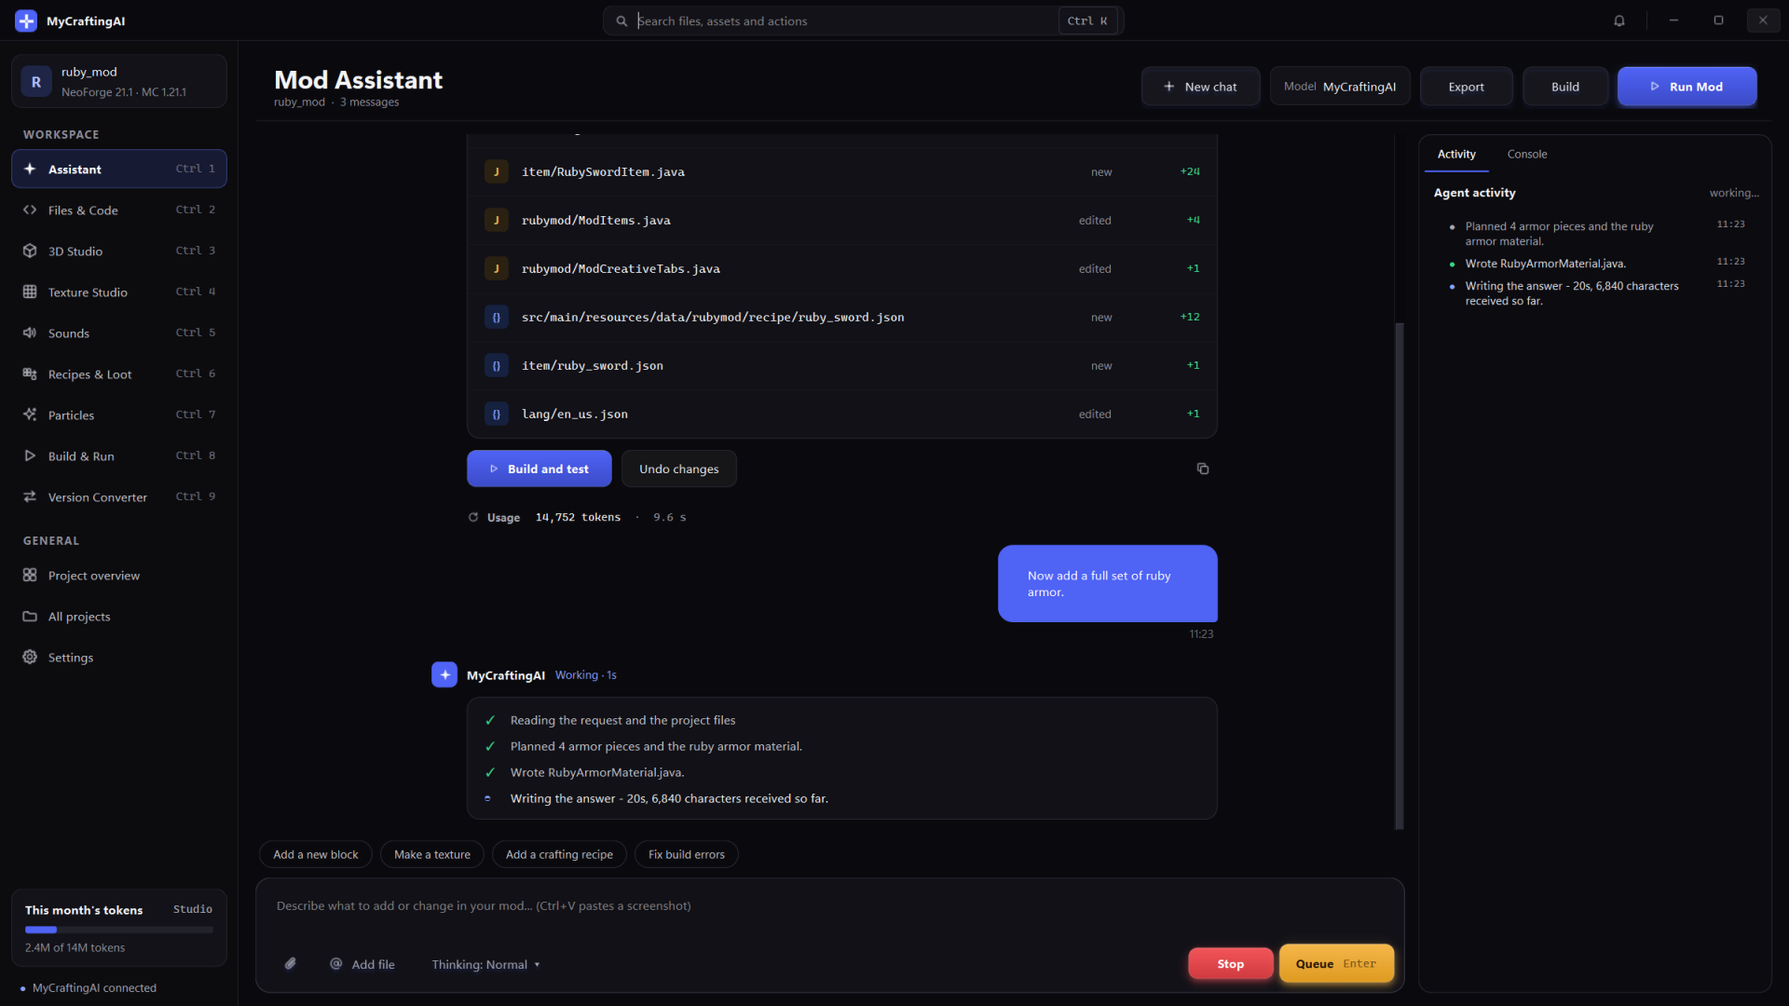
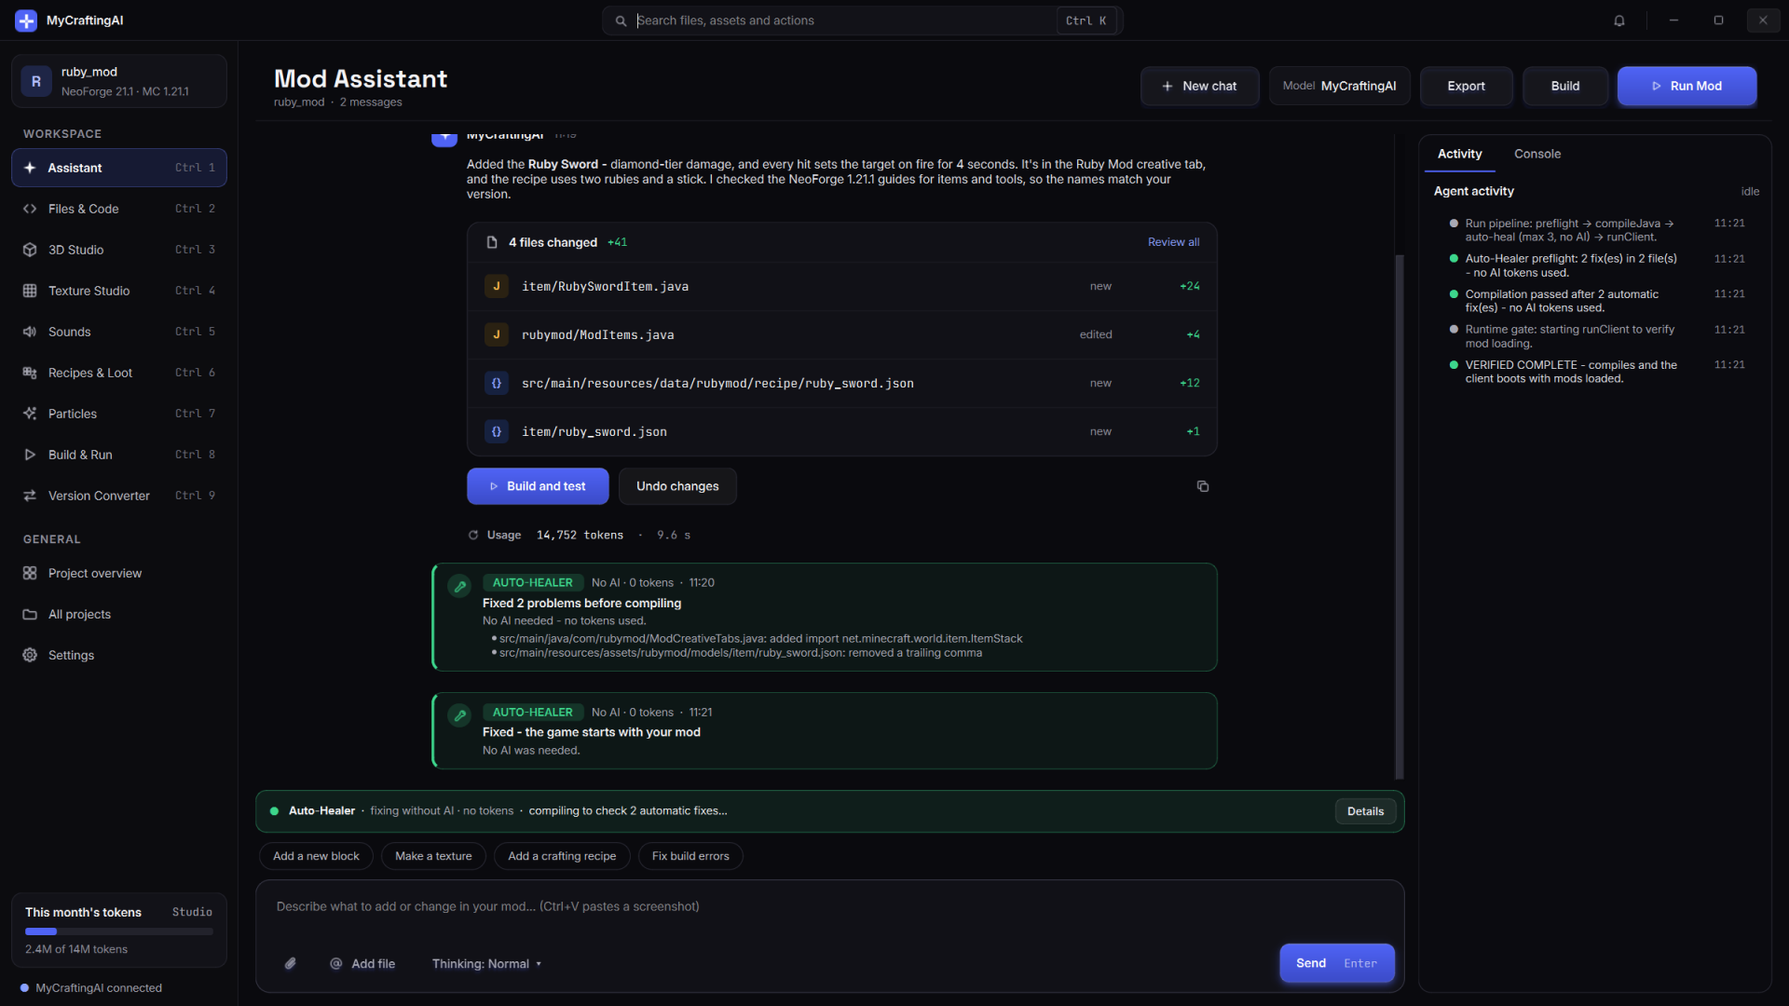
MyCraftingAI 1.1.3 - website update

diff --git a/about.html b/about.html
@@ -114,7 +114,7 @@
           { "@type": "Question", "name": "Which mod loaders and Minecraft versions does MyCraftingAI support?",
             "acceptedAnswer": { "@type": "Answer", "text": "Forge (1.7.10 to 26.x), NeoForge (1.20.2 to 26.x) and Fabric (1.14.3 to 26.x) projects, plus datapacks. Every Minecraft version the app offers has its own verified, version-exact guides in the app's built-in reference library, so the AI writes code with the right names and APIs for that exact version. The Version Converter reads Forge, NeoForge, Fabric and Quilt mods of any version and converts them to any of those versions." } },
           { "@type": "Question", "name": "What happens when my mod doesn't compile?",
-            "acceptedAnswer": { "@type": "Answer", "text": "MyCraftingAI's Auto-Healer checks the mod's JSON files and mod id before every build, then fixes common compile errors - missing imports, renamed classes and known API changes between Minecraft versions - by itself, without AI tokens. Only what is left goes to the AI, together with the exact error lines and the real class and method names of the project's Minecraft version." } },
+            "acceptedAnswer": { "@type": "Answer", "text": "MyCraftingAI's Auto-Healer checks the mod's JSON files and mod id before every build, then fixes common compile errors - missing imports, renamed classes and known API changes between Minecraft versions - and known crashes by itself, without AI tokens. Only what is left goes to the AI, together with the exact error lines and the real class and method names of the project's Minecraft version. A green Auto-Healer card or an indigo AI repair card always shows who is fixing the mod." } },
           { "@type": "Question", "name": "Can MyCraftingAI convert a 1.12.2 or 1.16.5 mod to 1.21.1?",
             "acceptedAnswer": { "@type": "Answer", "text": "Yes. The Version Converter detects the mod's loader and version, ports the code and resources (including the 1.13 Flattening and the 1.21 data changes) to each target you choose and saves every version as a ready-to-build ZIP with a report. The token estimate is shown before it starts." } },
           { "@type": "Question", "name": "Is MyCraftingAI free?",
@@ -174,55 +174,55 @@
             <div class="ws-top"><h3>Mod Assistant (chat)</h3><span class="tag">All plans</span></div>
             <p>Chat with an AI that reads your project before it writes. Each answer lists the files it created or changed, so you can review, undo or build straight away.</p>
             <ul><li>Items, blocks, ores, tools, armour, mobs, recipes, loot and world generation</li><li>Version-exact: reads verified guides for your loader and Minecraft version, and looks up classes mid-answer</li><li>Attach screenshots or reference images</li></ul>
-            <img src="assets/img/assistant.png?v=20261126" alt="MyCraftingAI Mod Assistant with a finished request and the list of changed files" loading="lazy" width="1920" height="1080">
+            <img src="assets/img/assistant.png?v=20261130" alt="MyCraftingAI Mod Assistant with a finished request, the changed files and Auto-Healer repair cards" loading="lazy" width="1920" height="1080">
           </article>
           <article class="ws-card">
             <div class="ws-top"><h3>3D Studio</h3><span class="tag studio">Studio plan</span></div>
             <p>Describe a mob and how it moves. The AI builds a GeckoLib model with bones, pivots and animations; watch every animation play in the app, then connect it to your code with one click. Weapons, tools, guns and armor sets too.</p>
-            <ul><li>GeckoLib release matched to your loader and version automatically</li><li>Walk, idle, attack and fly animations from a sentence - add new ones like "aim a bow" any time</li><li>3D weapons and guns placed right in the hand, the inventory and on the ground; 3D armor on a player mannequin</li><li>Glowing eyes, fire, smoke and other effects, previewed live</li></ul>
-            <img src="assets/img/3d-studio.png?v=20261126" alt="MyCraftingAI 3D Studio showing a GeckoLib fire dragon model playing its fly animation" loading="lazy" width="1920" height="1080">
+            <ul><li>GeckoLib release matched to your loader and version automatically</li><li>Walk, idle, attack and fly animations from a sentence - "run, walk and attack" makes three separate ones</li><li>Animation list: play, add, redo or delete each animation, or redo only the ones you tick</li><li>3D weapons and guns placed right in the hand, the inventory and on the ground; 3D armor on a player mannequin</li><li>Glowing eyes, fire, smoke and other effects, previewed live</li></ul>
+            <img src="assets/img/3d-studio.png?v=20261130" alt="MyCraftingAI 3D Studio showing a GeckoLib fire dragon playing its fly animation, with its animation list" loading="lazy" width="1920" height="1080">
           </article>
           <article class="ws-card">
             <div class="ws-top"><h3>Texture Studio</h3><span class="tag">Builder and up</span></div>
             <p>Paint item, block and entity textures by hand, or describe them to the pixel-art AI. Turn the result in 3D to check it from every side.</p>
             <ul><li>16x16 to 64x64 pixel art at the size the game expects</li><li>Every asset arrives with an art brief from the Assistant - press Generate, pick Fast, Normal or Max detail</li><li>Show GUI buttons: slots, buttons and bars outlined where your code draws them</li><li>Mobs shown on their real 3D model</li></ul>
-            <img src="assets/img/texture-studio.png?v=20261126" alt="MyCraftingAI Texture Studio with a 16 by 16 ruby gem on the pixel canvas" loading="lazy" width="1920" height="1080">
+            <img src="assets/img/texture-studio.png?v=20261130" alt="MyCraftingAI Texture Studio with a 16 by 16 ruby gem on the pixel canvas" loading="lazy" width="1920" height="1080">
           </article>
           <article class="ws-card">
             <div class="ws-top"><h3>Version Converter</h3><span class="tag studio">Studio plan</span></div>
             <p>Point it at a mod folder: it detects the loader and Minecraft version, ports the mod to every loader and version you pick, and saves each one as a ready-to-build ZIP with a conversion report.</p>
             <ul><li>From Forge, NeoForge, Fabric and Quilt mods of any version</li><li>To Forge 1.7.10+, NeoForge 1.20.2+ and Fabric 1.14.3+ up to 26.x - every target with verified guides</li><li>Predictable token estimate before it starts; compile check with 1 to unlimited repair rounds</li><li>Every version kept as a project: pick it next to Run Mod and test it one by one</li></ul>
-            <img src="assets/img/version-converter.png?v=20261126" alt="MyCraftingAI Version Converter converting a mod to several loaders and Minecraft versions with a token estimate" loading="lazy" width="1920" height="1080">
+            <img src="assets/img/version-converter.png?v=20261130" alt="MyCraftingAI Version Converter converting a mod to several loaders and Minecraft versions with a token estimate" loading="lazy" width="1920" height="1080">
           </article>
           <article class="ws-card">
             <div class="ws-top"><h3>Project Manager</h3><span class="tag">All plans</span></div>
             <p>Create a new mod or open an existing one. The start screen downloads the official template for the loader and version you choose and renames it to your mod, then the overview and code editor keep the whole project in view.</p>
             <ul><li>Smart scaffolding: <code>com.my_mod</code>, never <code>com.example</code></li><li>Project overview with loader, version and Java detection</li><li>Files &amp; Code editor with tabs, syntax colours and a project tree</li></ul>
-            <img src="assets/img/files.png?v=20261126" alt="MyCraftingAI Files and Code view with the project tree and Java editor" loading="lazy" width="1920" height="1080">
+            <img src="assets/img/files.png?v=20261130" alt="MyCraftingAI Files and Code view with the project tree and Java editor" loading="lazy" width="1920" height="1080">
           </article>
           <article class="ws-card">
             <div class="ws-top"><h3>Build &amp; Run</h3><span class="tag">All plans</span></div>
             <p>Compile with Gradle and launch the Minecraft development client in one click. The Auto-Healer fixes common errors first without tokens; what's left goes to the assistant, as many rounds as you allow, and a load check confirms the game really starts with your mod.</p>
-            <ul><li>Auto-Healer: JSON files, mod id, imports and version API changes repaired before the AI is asked</li><li>Right Java (8, 17, 21 or 25) chosen or downloaded automatically</li><li>Setup problems explained instead of sent to the AI</li><li>Test server with its addresses, port, admins and offline players</li><li>Export: the ready-to-play .jar or the project as a ZIP - one version or all</li></ul>
-            <img src="assets/img/build-run.png?v=20261126" alt="MyCraftingAI Build and Run page with the compile pipeline and game log" loading="lazy" width="1920" height="1080">
+            <ul><li>Auto-Healer: JSON files, mod id, imports, version API changes and known crashes repaired before the AI is asked</li><li>Always clear who is fixing: green Auto-Healer (free) or indigo AI repair (uses tokens)</li><li>Right Java (8, 17, 21 or 25) chosen or downloaded automatically</li><li>Setup problems explained instead of sent to the AI</li><li>Test server with its addresses, port, admins and offline players</li><li>Export: the ready-to-play .jar or the project as a ZIP - one version or all</li></ul>
+            <img src="assets/img/build-run.png?v=20261130" alt="MyCraftingAI Build and Run page with the compile pipeline and game log" loading="lazy" width="1920" height="1080">
           </article>
           <article class="ws-card">
             <div class="ws-top"><h3>Sounds</h3><span class="tag">Builder and up</span></div>
             <p>Every sound your mod needs in one list: each mob's ambient, hurt, death and step sounds and every sound event in your code. New mobs arrive with fitting Minecraft sounds, so nothing is silent.</p>
             <ul><li>All 1,968 Minecraft sounds to listen to and pick from</li><li>Import your own .ogg, set volume and pitch</li><li>One click connects the sounds to your code</li></ul>
-            <img src="assets/img/sounds.png?v=20261126" alt="MyCraftingAI Sounds page with a golem's sounds, the sound shape sliders and the Minecraft sound library" loading="lazy" width="1920" height="1080">
+            <img src="assets/img/sounds.png?v=20261130" alt="MyCraftingAI Sounds page with a golem's sounds, the sound shape sliders and the Minecraft sound library" loading="lazy" width="1920" height="1080">
           </article>
           <article class="ws-card">
             <div class="ws-top"><h3>Recipes &amp; Loot</h3><span class="tag">Builder and up</span></div>
             <p>A visual crafting table and loot-table builder. Pick your mod's items or any Minecraft item, click the slots, save - the files are written in the exact format of your Minecraft version.</p>
             <ul><li>Shaped, shapeless, furnace, blast furnace, smoker, campfire and stonecutter recipes</li><li>Block drops with Silk Touch and Fortune, mob drops with Looting and chances</li><li>No code and no AI tokens needed</li></ul>
-            <img src="assets/img/recipes.png?v=20261126" alt="MyCraftingAI Recipes and Loot page with a ruby sword crafting recipe" loading="lazy" width="1920" height="1080">
+            <img src="assets/img/recipes.png?v=20261130" alt="MyCraftingAI Recipes and Loot page with a ruby sword crafting recipe" loading="lazy" width="1920" height="1080">
           </article>
           <article class="ws-card">
             <div class="ws-top"><h3>Particles</h3><span class="tag studio">Studio plan</span></div>
             <p>Design particles, sword trails, shockwave rings, spirals, auras and explosions with a live preview, then attach them to an item, a mob or a projectile.</p>
             <ul><li>Shape, sprite, colour and opacity fades, size, lifetime, physics and glow</li><li>Preview in real time without spending tokens</li><li>Connect to code registers the particle and spawns it for every player</li></ul>
-            <img src="assets/img/particles.png?v=20261126" alt="MyCraftingAI Particles page with a glowing sword-swing trail in the live preview" loading="lazy" width="1920" height="1080">
+            <img src="assets/img/particles.png?v=20261130" alt="MyCraftingAI Particles page with a glowing sword-swing trail in the live preview" loading="lazy" width="1920" height="1080">
           </article>
         </div>
       </div>

diff --git a/index.html b/index.html
@@ -135,50 +135,50 @@
         </div>
         <div class="tour reveal">
           <div class="tour-tabs" role="tablist" aria-label="App workspaces">
-            <button class="tour-tab" role="tab" aria-selected="true" data-shot="assets/img/assistant.png?v=20261126" data-alt="Mod Assistant with a finished request and the list of changed files">
+            <button class="tour-tab" role="tab" aria-selected="true" data-shot="assets/img/assistant.png?v=20261130" data-alt="Mod Assistant with a finished request, the changed files and two Auto-Healer repair cards">
               <h3>Mod Assistant <span class="k">Ctrl 1</span></h3>
-              <p>Chat with the assistant. Every answer ends with the files it changed, so you can review, undo, or build right away.</p>
+              <p>Chat with the assistant. Every answer ends with the files it changed, so you can review, undo, or build right away. Repairs are labelled: green for the free Auto-Healer, indigo when the AI is fixing.</p>
             </button>
-            <button class="tour-tab" role="tab" aria-selected="false" data-shot="assets/img/files.png?v=20261126" data-alt="Files and Code view with the project tree and Java editor">
+            <button class="tour-tab" role="tab" aria-selected="false" data-shot="assets/img/files.png?v=20261130" data-alt="Files and Code view with the project tree and Java editor">
               <h3>Files &amp; Code <span class="k">Ctrl 2</span></h3>
               <p>A real editor with tabs, syntax colours and a project tree. Rename, copy, paste, or send files to the Recycle Bin.</p>
             </button>
-            <button class="tour-tab" role="tab" aria-selected="false" data-shot="assets/img/3d-studio.png?v=20261126" data-alt="3D Studio showing a GeckoLib fire dragon model playing its fly animation">
+            <button class="tour-tab" role="tab" aria-selected="false" data-shot="assets/img/3d-studio.png?v=20261130" data-alt="3D Studio showing a GeckoLib fire dragon playing its fly animation, with the list of its five animations">
               <h3>3D Studio <span class="lock" title="Included in the Studio plan.">Studio</span> <span class="k">Ctrl 3</span></h3>
-              <p>Describe a mob and how it moves. The AI builds a GeckoLib model with bones and animations, and you watch them play before connecting it to your code.</p>
+              <p>Describe a mob and how it moves. The AI builds a GeckoLib model with bones and animations, and you watch them play. Add, redo or delete each animation - "run, walk and attack" makes three.</p>
             </button>
-            <button class="tour-tab" role="tab" aria-selected="false" data-shot="assets/img/3d-weapons.png?v=20261126" data-alt="3D Studio showing a ruby longsword held by a player mannequin">
+            <button class="tour-tab" role="tab" aria-selected="false" data-shot="assets/img/3d-weapons.png?v=20261130" data-alt="3D Studio showing a ruby longsword held by a player mannequin">
               <h3>3D weapons &amp; armor <span class="lock" title="Included in the Studio plan.">Studio</span> <span class="k">Ctrl 3</span></h3>
               <p>Swords, tools, guns and armor sets in 3D. Every position - in the hand, first person, the inventory and on the ground - is set for you and shown on a player before you use it.</p>
             </button>
-            <button class="tour-tab" role="tab" aria-selected="false" data-shot="assets/img/texture-studio.png?v=20261126" data-alt="Texture Studio with a ruby sword on the pixel canvas">
+            <button class="tour-tab" role="tab" aria-selected="false" data-shot="assets/img/texture-studio.png?v=20261130" data-alt="Texture Studio with a ruby sword on the pixel canvas">
               <h3>Texture Studio <span class="lock" title="Included in Builder and up. On Free, unlock 5 minutes with a short ad.">Builder+</span> <span class="k">Ctrl 4</span></h3>
               <p>Paint 16x16 sprites by hand or describe them to the pixel-art AI. Turn the item in 3D to check it from every side.</p>
             </button>
-            <button class="tour-tab" role="tab" aria-selected="false" data-shot="assets/img/sounds.png?v=20261126" data-alt="Sounds page with a golem's sounds, the sound shape sliders and the Minecraft sound library">
+            <button class="tour-tab" role="tab" aria-selected="false" data-shot="assets/img/sounds.png?v=20261130" data-alt="Sounds page with a golem's sounds, the sound shape sliders and the Minecraft sound library">
               <h3>Sounds <span class="lock" title="Included in Builder and up.">Builder+</span> <span class="k">Ctrl 5</span></h3>
               <p>Every sound your mobs and items need, filled in with fitting Minecraft sounds. Listen to all 1,968 of them, shape the tone, loudness and range, or import your own.</p>
             </button>
-            <button class="tour-tab" role="tab" aria-selected="false" data-shot="assets/img/recipes.png?v=20261126" data-alt="Recipes and Loot page with a ruby sword crafting recipe">
+            <button class="tour-tab" role="tab" aria-selected="false" data-shot="assets/img/recipes.png?v=20261130" data-alt="Recipes and Loot page with a ruby sword crafting recipe">
               <h3>Recipes &amp; Loot <span class="lock" title="Included in Builder and up.">Builder+</span> <span class="k">Ctrl 6</span></h3>
               <p>A visual crafting table and loot-table builder with your mod's items and every Minecraft item. Written in your Minecraft version's exact format - no code needed.</p>
             </button>
-            <button class="tour-tab" role="tab" aria-selected="false" data-shot="assets/img/particles.png?v=20261126" data-alt="Particles page with a glowing sword-swing trail in the live preview">
+            <button class="tour-tab" role="tab" aria-selected="false" data-shot="assets/img/particles.png?v=20261130" data-alt="Particles page with a glowing sword-swing trail in the live preview">
               <h3>Particles <span class="lock" title="Included in the Studio plan.">Studio</span> <span class="k">Ctrl 7</span></h3>
               <p>Design sparks, swing trails, shockwaves, spirals, auras and explosions with a live preview, then attach them to an item, a mob or a projectile.</p>
             </button>
-            <button class="tour-tab" role="tab" aria-selected="false" data-shot="assets/img/build-run.png?v=20261126" data-alt="Build and Run page with the compile pipeline and game log">
+            <button class="tour-tab" role="tab" aria-selected="false" data-shot="assets/img/build-run.png?v=20261130" data-alt="Build and Run page with the compile pipeline and game log">
               <h3>Build &amp; Run <span class="k">Ctrl 8</span></h3>
               <p>Compile with Gradle and launch the dev client in one click. If the build fails, the Auto-Healer fixes common errors first - without tokens - and the rest goes straight back to the assistant. Run a test server with its addresses, admins and offline players. <b>Export</b> saves the ready-to-play .jar or the project files as a ZIP.</p>
             </button>
-            <button class="tour-tab" role="tab" aria-selected="false" data-shot="assets/img/version-converter.png?v=20261126" data-alt="Version Converter converting a NeoForge 1.21.1 mod to Fabric, Forge and NeoForge versions with a token estimate">
+            <button class="tour-tab" role="tab" aria-selected="false" data-shot="assets/img/version-converter.png?v=20261130" data-alt="Version Converter converting a NeoForge 1.21.1 mod to Fabric, Forge and NeoForge versions with a token estimate">
               <h3>Version Converter <span class="lock" title="Included in the Studio plan.">Studio</span> <span class="k">Ctrl 9</span></h3>
               <p>Point it at any Forge, NeoForge, Fabric or Quilt mod: it detects the loader and version, ports it to as many loaders and Minecraft versions as you pick - from 1.7.10 to 26.x, each with verified guides - and hands you a ready-to-build ZIP for each, with the token cost shown first. Then pick each version next to Run Mod to build and test it, one by one.</p>
             </button>
           </div>
           <figure class="shot" style="margin:0">
             <div class="shot-bar"><i></i><i></i><i></i></div>
-            <img id="tour-img" src="assets/img/assistant.png?v=20261126" width="1920" height="1080" alt="Mod Assistant with a finished request and the list of changed files" loading="lazy">
+            <img id="tour-img" src="assets/img/assistant.png?v=20261130" width="1920" height="1080" alt="Mod Assistant with a finished request, the changed files and two Auto-Healer repair cards" loading="lazy">
           </figure>
         </div>
       </div>
@@ -380,7 +380,7 @@
           </details>
           <details>
             <summary>How many times does it try to fix a failing build?</summary>
-            <div class="answer">First the <b>Auto-Healer</b> tries, for free: before every build it checks your JSON files and mod id, then fixes common compile errors - missing imports, renamed classes and known API changes between Minecraft versions - up to 3 times without using any tokens, keeping a backup of each file it changes. Whatever is left goes to the assistant with the exact error lines and the real names from your Minecraft version. How many AI rounds it gets is up to you: in Settings &rarr; Assistant, set any number of attempts or switch on Unlimited, which keeps going until the build passes or your tokens run out. The Auto-Healer can be switched off there too.</div>
+            <div class="answer">First the <b>Auto-Healer</b> tries, for free: before every build it checks your JSON files and mod id, then fixes common compile errors - missing imports, renamed classes and known API changes between Minecraft versions - up to 3 times without using any tokens, keeping a backup of each file it changes - it also fixes known crashes, like a mob's attributes registered twice. You always see who is working: a green <b>Auto-Healer</b> card and status bar (free) or an indigo <b>AI repair</b> one (uses tokens). Whatever is left goes to the assistant with the exact error lines and the real names from your Minecraft version. How many AI rounds it gets is up to you: in Settings &rarr; Assistant, set any number of attempts or switch on Unlimited, which keeps going until the build passes or your tokens run out. The Auto-Healer can be switched off there too.</div>
           </details>
           <details>
             <summary>Who owns the mods I make?</summary>
